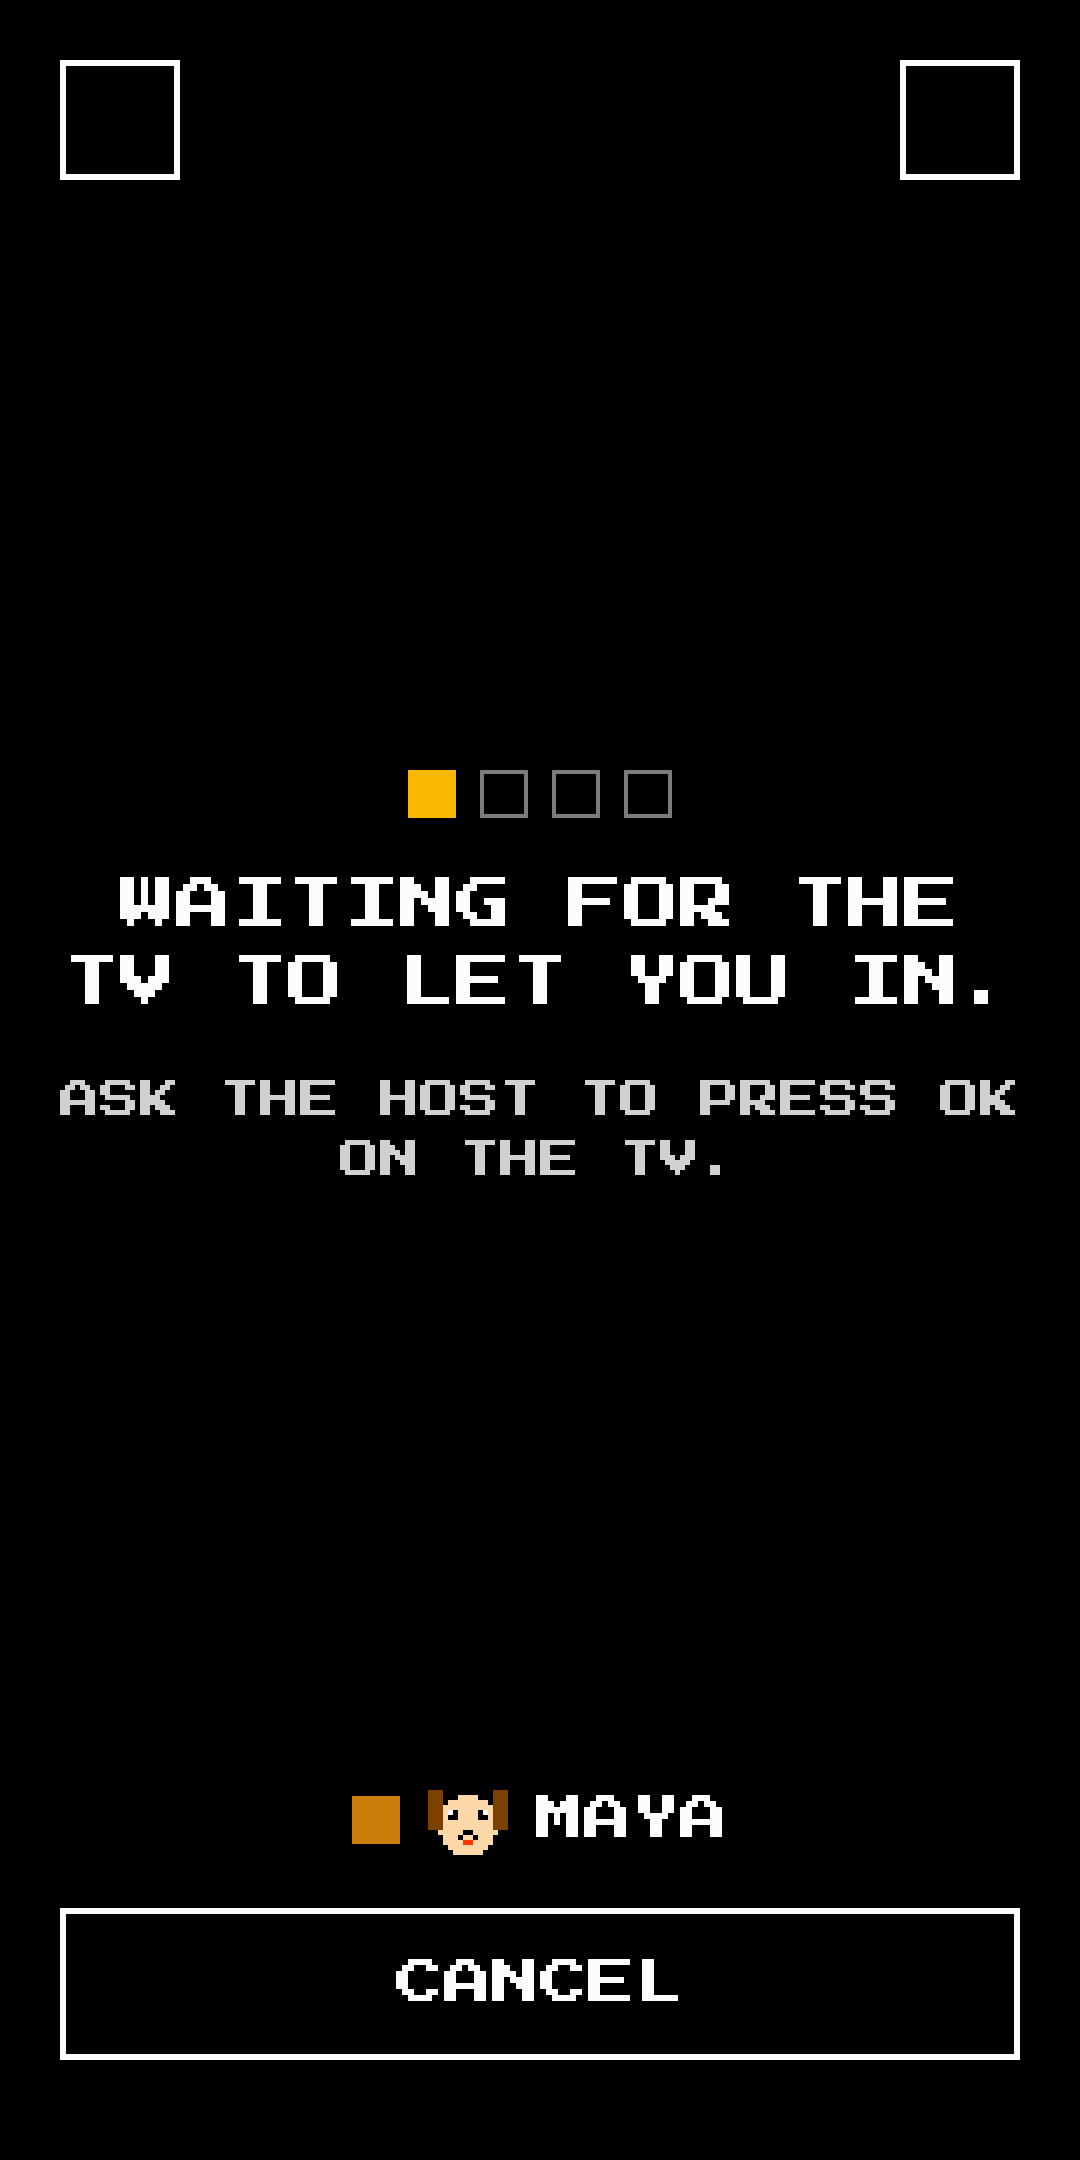
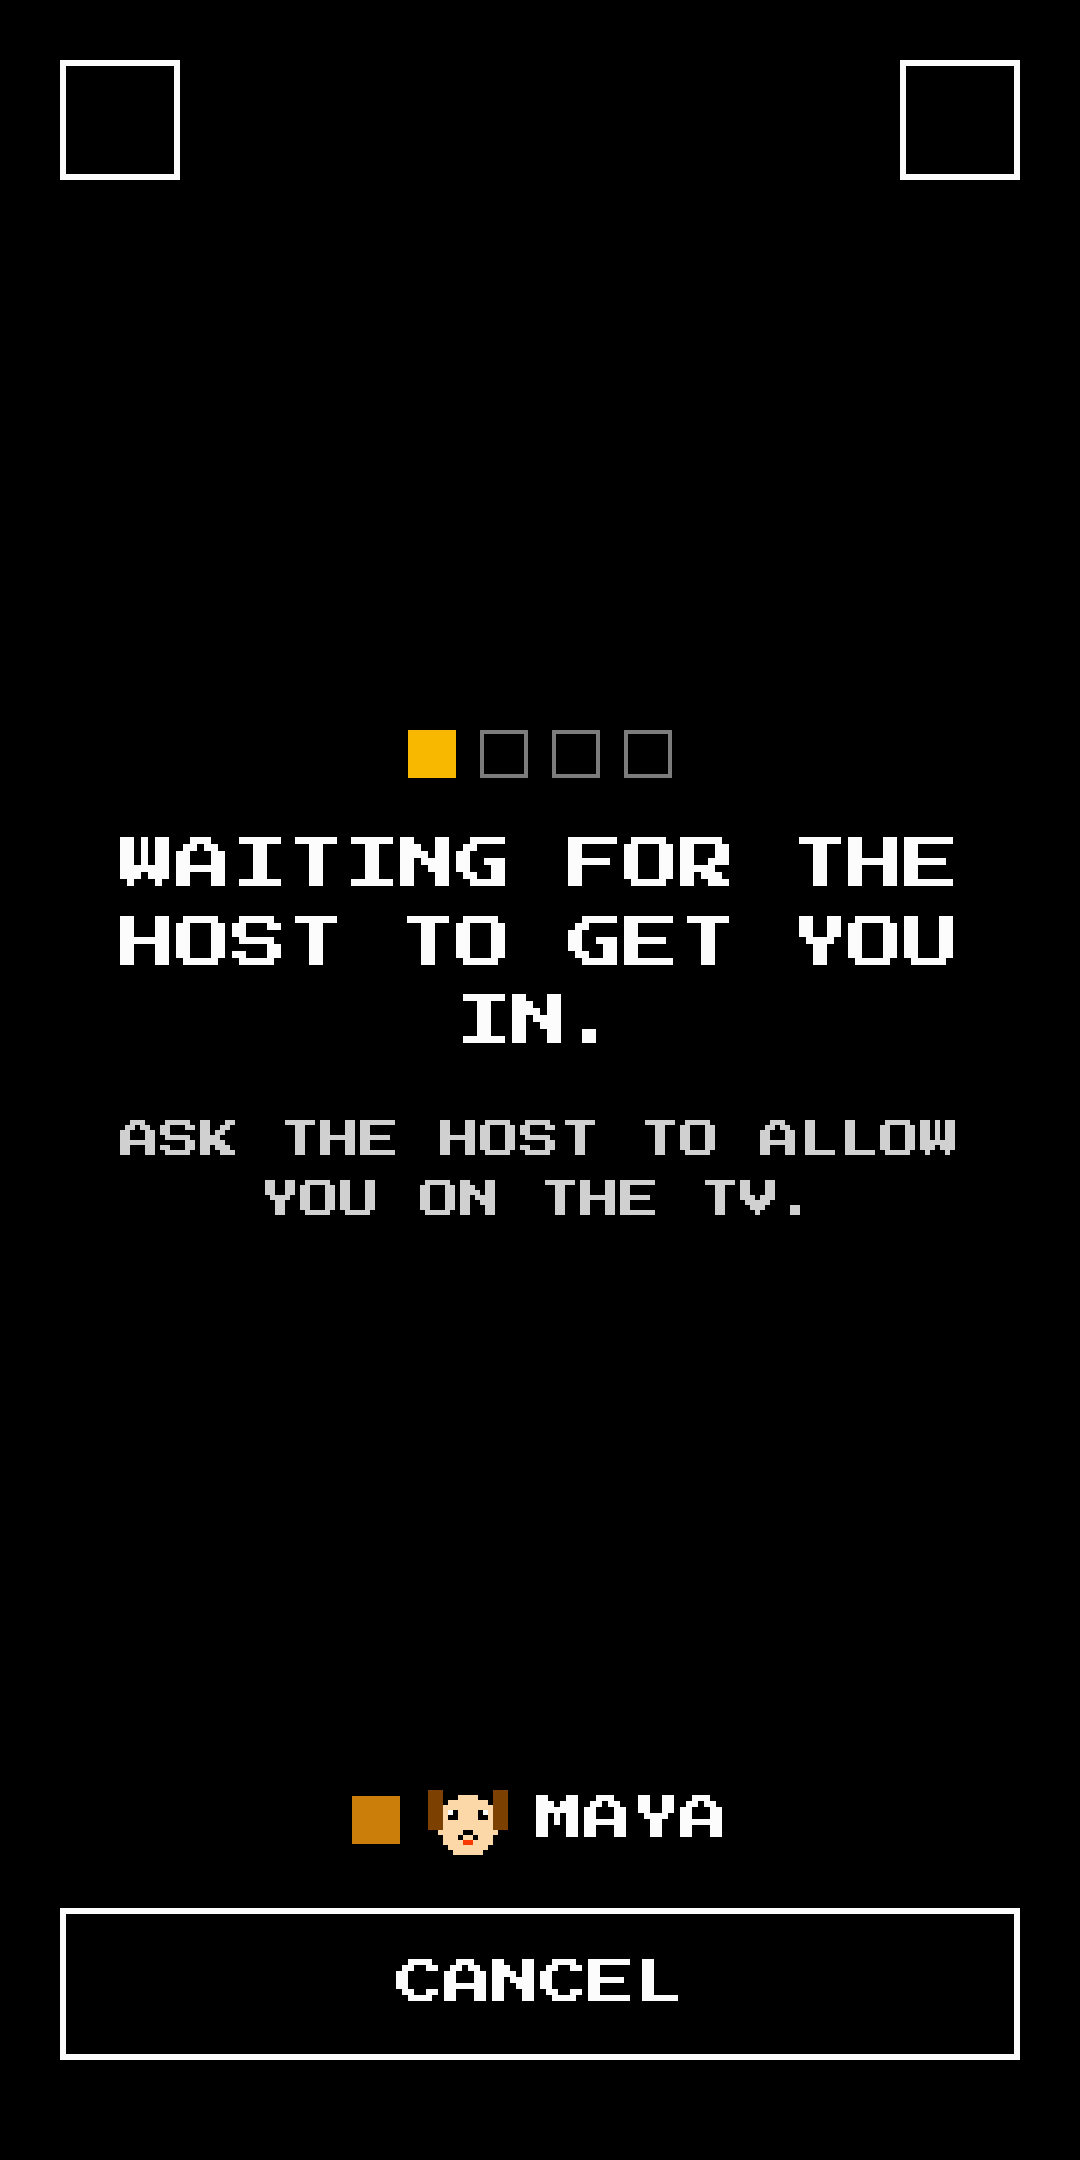
Mocks for the join approval: ALLOW and REFUSE buttons, Settings row first, new waiting text (#393)
Owner decisions of 2026-11-07 (the look is approved with these changes): the TV card shows two
buttons ALLOW and REFUSE (ALLOW focused) instead of the OK and BACK key boxes; the Settings row
"approve new players" is the first row; the phone waiting screen reads "WAITING FOR THE HOST TO
GET YOU IN." / "ממתינים שהמארח יאשר אתכם." with the hint "ASK THE HOST TO ALLOW YOU ON THE TV."
(a proposal). Texts are still proposals until the code (strings.csv is not changed).

Claude-Session: https://claude.ai/code/session_018NHRQoMYXZ4Z4jhDk7VsCo

Changed region(s): [[0.0611, 0.3412, 0.9472, 0.5583]]

diff --git a/docs/design-system/components/JoinApproval/join_approval.js b/docs/design-system/components/JoinApproval/join_approval.js
@@ -9,7 +9,7 @@
       title: "NEW PLAYER", wants: "WANTS TO JOIN", allow: "ALLOW", refuse: "REFUSE", queue: "+2 WAITING",
       settings: "SETTINGS", approve: "APPROVE NEW PLAYERS", debug: "DEBUG OVERLAY", invert: "INVERT AXES", music: "MUSIC", effects: "EFFECTS",
       language: "LANGUAGE", langname: "ENGLISH", on: "ON", off: "OFF", back: "BACK", select: "SELECT GAME", room: "ROOM CODE",
-      wait: "WAITING FOR THE TV TO LET YOU IN.", waitSub: "ASK THE HOST TO PRESS OK ON THE TV.", cancel: "CANCEL",
+      wait: "WAITING FOR THE HOST TO GET YOU IN.", waitSub: "ASK THE HOST TO ALLOW YOU ON THE TV.", cancel: "CANCEL",
       no: "THE HOST DID NOT LET YOU IN.", to: "NO ANSWER FROM THE TV. TRY AGAIN.", busy: "TOO MANY PLAYERS ARE WAITING. TRY AGAIN IN A MINUTE.",
       type: "TYPE THE ROOM CODE FROM THE TV", scan: "SCAN QR CODE", logo: "SABABI", you: "YOU ARE MAYA", name: "MAYA"
     },
@@ -17,7 +17,7 @@
       title: "שחקן חדש", wants: "רוצה להצטרף", allow: "לאשר", refuse: "לסרב", queue: "עוד 2 ממתינים",
       settings: "הגדרות", approve: "אישור שחקנים חדשים", debug: "מסך אבחון", invert: "היפוך צירים", music: "מוזיקה", effects: "אפקטים",
       language: "שפה", langname: "עברית", on: "פועל", off: "כבוי", back: "חזרה", select: "בחרו משחק", room: "קוד חדר",
-      wait: "ממתינים שהטלוויזיה תכניס אתכם.", waitSub: "בקשו מהמארח ללחוץ OK בטלוויזיה.", cancel: "ביטול",
+      wait: "ממתינים שהמארח יאשר אתכם.", waitSub: "בקשו מהמארח לאשר אתכם בטלוויזיה.", cancel: "ביטול",
       no: "המארח לא הכניס אתכם.", to: "אין תשובה מהטלוויזיה. נסו שוב.", busy: "יותר מדי שחקנים ממתינים. נסו שוב בעוד דקה.",
       type: "הקלידו את קוד החדר מהטלוויזיה", scan: "סרקו קוד QR", logo: "SABABI", you: "אתם מייה", name: "מאיה"
     }
@@ -53,7 +53,7 @@
     card.innerHTML =
       '<div class="top"><h2>' + T.title + '</h2><span class="queue">' + T.queue + '</span></div>' +
       '<div class="who">' + avatar(8) + '<div><div class="pname">' + T.name + '</div><div class="wants">' + T.wants + '</div></div></div>' +
-      '<div class="hints"><span>' + key("OK", "okk") + ' <b class="okl">' + T.allow + '</b></span><span>' + key("BACK", "bkk") + ' <b class="bdl">' + T.refuse + '</b></span></div>';
+      '<div class="hints"><span class="btn focus okl">' + T.allow + '</span><span class="btn bdl">' + T.refuse + '</span></div>';
     dim.appendChild(card); root.appendChild(dim);
   } else if (screen === "settings") {
     var box = el("div", "set");
@@ -64,12 +64,12 @@
       return r;
     }
     var rows = el("div", "rows");
+    rows.appendChild(row(T.approve, T.on, 1, 0, 1, "var(--ok)"));   /* owner 2026-11-07: the first row, keeps the focus */
     rows.appendChild(row(T.debug, T.off, 0, 1, 0, "var(--text-dim)"));
     rows.appendChild(row(T.invert, T.off, 0, 1, 0, "var(--text-dim)"));
     rows.appendChild(row(T.music, "7 / 10", 0, 0, 0));
     rows.appendChild(row(T.effects, "8 / 10", 0, 0, 0));
     rows.appendChild(row(T.language, T.langname, 0, 0, 0, "var(--accent)"));
-    rows.appendChild(row(T.approve, T.on, 1, 0, 1, "var(--ok)"));   /* D8: the last row, after Language */
     box.appendChild(rows);
     box.appendChild(el("div", "rp-item back", T.back));
     root.appendChild(box);

diff --git a/docs/design-system/components/JoinApproval/join_approval.css b/docs/design-system/components/JoinApproval/join_approval.css
@@ -15,15 +15,17 @@ body.phone{width:1080px;height:2160px;padding:0;overflow:hidden}
 .who{display:flex;align-items:center;gap:40px;justify-content:flex-start}
 .pname{font-size:64px;line-height:1.2}
 .wants{color:var(--text-desc);font-size:32px;margin-top:10px}
-.hints{display:flex;justify-content:space-around;font-size:40px;padding-top:8px}
-.hints span{display:flex;align-items:center;gap:20px}
-.key{display:inline-block;border:var(--line-w) solid var(--text);padding:8px 18px;font-size:32px;color:var(--text)}
-.hints b{font-weight:400}
+.hints{display:flex;justify-content:center;gap:160px;font-size:48px;padding-top:8px}
+/* menu-item buttons (rp-item style): text, pixel cursor in front when focused; the words are the cue, not the color */
+.btn{position:relative;padding:10px 16px;padding-inline-start:84px;text-transform:uppercase}
+.btn.focus::before{content:"";position:absolute;inset-inline-start:8px;top:50%;width:5px;height:5px;margin-top:-2.5px;background:var(--ok);box-shadow:5px -5px 0 var(--ok),5px 0 0 var(--ok),5px 5px 0 var(--ok),10px -10px 0 var(--ok),10px -5px 0 var(--ok),10px 0 0 var(--ok),10px 5px 0 var(--ok),10px 10px 0 var(--ok),15px -5px 0 var(--ok),15px 0 0 var(--ok),15px 5px 0 var(--ok),20px 0 0 var(--ok);transform:scale(2.4);transform-origin:left center}
+[dir=rtl] .btn.focus::before{transform:scale(-2.4,2.4);transform-origin:right center}
+.btn:not(.focus){padding-inline-start:16px}
 .okl{color:var(--ok)}.bdl{color:var(--bad)}
 .set{position:absolute;inset:60px;display:flex;flex-direction:column;align-items:center;gap:40px}
 .set .rows{display:flex;flex-direction:column;gap:12px}
-.row{position:relative;display:flex;align-items:center;gap:20px;width:1500px;height:88px;padding:0 44px;box-sizing:border-box;font-size:40px}
-.row .nm{width:820px}
+.row{position:relative;display:flex;align-items:center;gap:20px;width:1500px;height:88px;padding:0 44px;padding-inline-start:72px;box-sizing:border-box;font-size:40px}
+.row .nm{width:790px}
 .row .vl{width:300px;text-align:center}
 .row .ar.end{color:var(--text-dim)}
 .row.focus .nm{color:var(--accent)}

diff --git a/docs/design-system/components/JoinApproval/README.md b/docs/design-system/components/JoinApproval/README.md
@@ -1,7 +1,7 @@
-Mocks for issue #393 (the host approves each new phone with the TV remote). The phone texts are the exact texts of the 'Proposed strings' table of `docs/TV_FLOW.md` (REQ-FL-100, REQ-FL-101); the TV texts are still proposals. Open `join_approval.html?screen=<tv|settings|waiting|refused|timeout|busy>&lang=<en|he>` (TV pages 1920x1080, phone pages 1080x2160). PNG files next to it: `tv_*`, `settings_*` (TV, 2x), `waiting_*`, `refused_*`, `timeout_*`, `busy_*` (phone, 1x), each `_en` and `_he`.
+Mocks for issue #393 (the host approves each new phone with the TV remote). The refused, timeout and busy texts are those of the 'Proposed strings' table of `docs/TV_FLOW.md` (REQ-FL-101); the waiting texts follow the owner's answer of 2026-11-07 and are not yet in that table; the TV texts are still proposals. The look was approved by the owner on 2026-11-07 (texts stay proposals until the code). Open `join_approval.html?screen=<tv|settings|waiting|refused|timeout|busy>&lang=<en|he>` (TV pages 1920x1080, phone pages 1080x2160). PNG files next to it: `tv_*`, `settings_*` (TV, 2x), `waiting_*`, `refused_*`, `timeout_*`, `busy_*` (phone, 1x), each `_en` and `_he`.
 
-- TV request card: double-frame panel over the dimmed Games screen. Title NEW PLAYER (`accent`, 48px), queue box "+2 WAITING", avatar (16x16 at 8x) with the name (64px) or "PLAYER N", key hints in boxes: OK = ALLOW (`ok`), BACK = REFUSE (`bad`). No countdown and no time bar (owner decision of 2026-11-07). Hebrew: mirrored (avatar and title at the right); the key boxes keep the Latin words OK and BACK, as on the remote.
-- TV Settings: the row "APPROVE NEW PLAYERS" `< ON >` as the LAST row, after LANGUAGE (switch row, REQ-FL-23, REQ-FL-93, D8). Level values such as MUSIC `7 / 10` read left to right also in Hebrew, as the Godot build draws them.
-- Phone, waiting (REQ-FL-100): stepped pixel dots, title WAITING FOR THE TV TO LET YOU IN. (`connect.waiting_approval`, 48px), line ASK THE HOST TO PRESS OK ON THE TV. (`connect.waiting_approval_hint`, 32px), the slot color square and avatar, and a CANCEL box button (`connect.approval_cancel`, 140px high). No focus, no JOIN.
+- TV request card: double-frame panel over the dimmed Games screen. Title NEW PLAYER (`accent`, 48px), queue box "+2 WAITING", avatar (16x16 at 8x) with the name (64px) or "PLAYER N", two menu-item buttons side by side, ALLOW (`ok`, focused at the start, with the pixel cursor) and REFUSE (`bad`, no cursor); the words and the cursor are the cue, not the color. No countdown and no time bar (owner decision of 2026-11-07). Hebrew: mirrored (avatar and title at the right); the button order mirrors (ALLOW at the right).
+- TV Settings: the row "APPROVE NEW PLAYERS" `< ON >` as the FIRST row (owner, 2026-11-07), focused (switch row, REQ-FL-23, REQ-FL-93). Level values such as MUSIC `7 / 10` read left to right also in Hebrew, as the Godot build draws them.
+- Phone, waiting (REQ-FL-100): stepped pixel dots, title WAITING FOR THE HOST TO GET YOU IN. (`connect.waiting_approval`, 48px), line ASK THE HOST TO ALLOW YOU ON THE TV. (`connect.waiting_approval_hint`, 32px), the slot color square and avatar, and a CANCEL box button (`connect.approval_cancel`, 140px high). No focus, no JOIN.
 - Phone, refused, timeout, busy (REQ-FL-101): the real Connect screen (`scripts/ui/controller_connect.gd`: title, ABOUT and SETTINGS icon boxes, player dropdown, status line 32px in `bad`, label, code field with the JOIN arrow button, SCAN QR CODE). The status line is `connect.approval_refused` (THE HOST DID NOT LET YOU IN.), `connect.approval_timeout` (NO ANSWER FROM THE TV. TRY AGAIN.) or `connect.approval_busy` (TOO MANY PLAYERS ARE WAITING. TRY AGAIN IN A MINUTE., 2 lines at 32px, nothing cut). There is no TRY AGAIN button: the code field and JOIN are the way to try again.
 - Not redrawn: the message THIS PLAYER IS ALREADY IN THE ROOM. (`app.player_already_in_room`).
